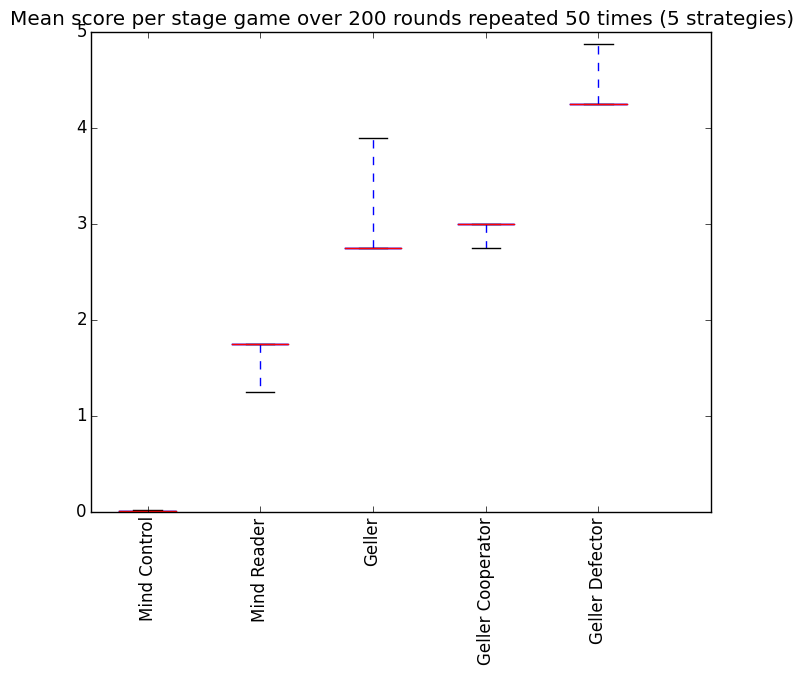
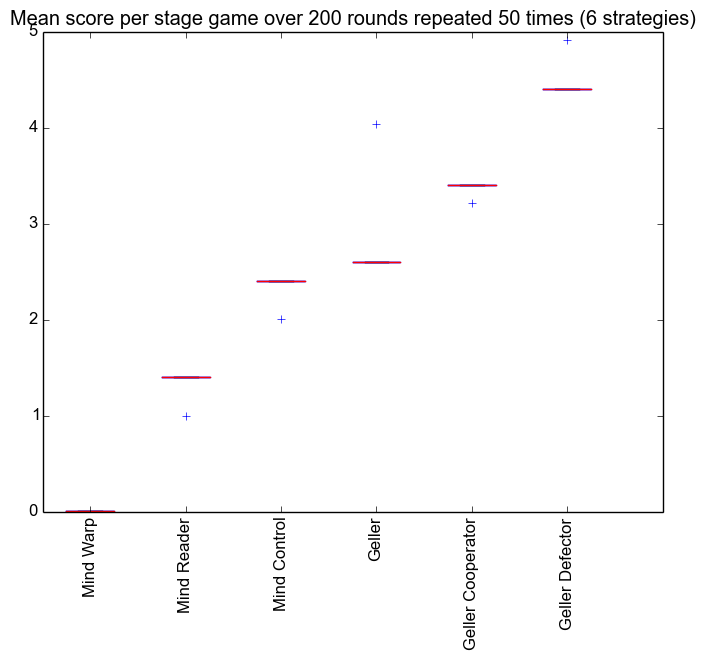
Introducing Mind Warper

diff --git a/axelrod/strategies/mindcontrol.py b/axelrod/strategies/mindcontrol.py
@@ -1,7 +1,7 @@
 from axelrod import Player, Axelrod
 
 class MindControl(Player):
-    """ A player that changes the opponents strategy to cooperate """
+    """A player that changes the opponents strategy to cooperate."""
     
     name = 'Mind Control'
 
@@ -15,3 +15,17 @@ class MindControl(Player):
         return 'D' 
 
 
+class MindWarp(Player):
+    """A player that changes the opponent's strategy but block changing it's own."""
+
+    name = 'Mind Warp'
+
+    def __setattr__(self, name, val):
+        if name == 'strategy':
+            pass
+        else:
+            self.__dict__[name] = val
+
+    def strategy(self, opponent):
+        opponent.strategy = lambda opponent: 'C'
+        return 'D'

diff --git a/axelrod/tests/test_mindcontrol.py b/axelrod/tests/test_mindcontrol.py
@@ -6,6 +6,8 @@ import axelrod
 
 class TestMindControl(unittest.TestCase):
 
+    name = 'Mind Control'
+
     def test_vs_cooperator(self):
         """ Will always make opponent cooperate """
 
@@ -49,8 +51,6 @@ class TestMindControl(unittest.TestCase):
         P1.reset()
         self.assertEqual(P1.history, [])
 
-    def test_representation(self):
-        """Tests that the string is correctly displayed"""
+class TestMindWarp(unittest.TestCase):
 
-        P1 = axelrod.MindControl()
-        self.assertEqual(str(P1), 'Mind Control')
+    name = "Mind Warp"

diff --git a/axelrod/strategies/__init__.py b/axelrod/strategies/__init__.py
@@ -65,5 +65,6 @@ cheating_strategies = [
         GellerCooperator,
         GellerDefector,
         MindControl,
+        MindWarp,
         MindReader,
         ]
